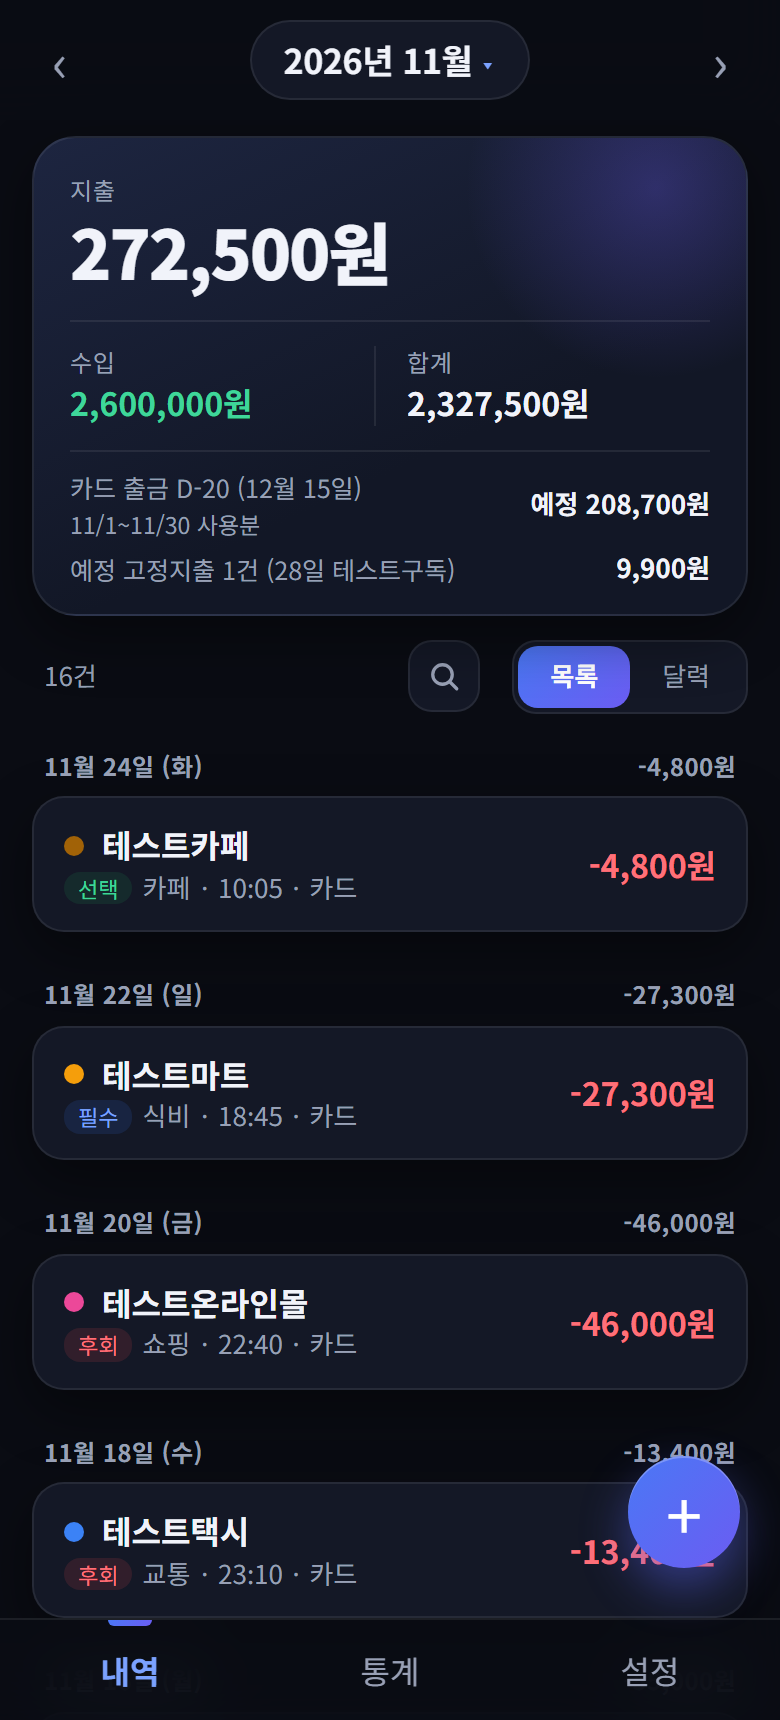
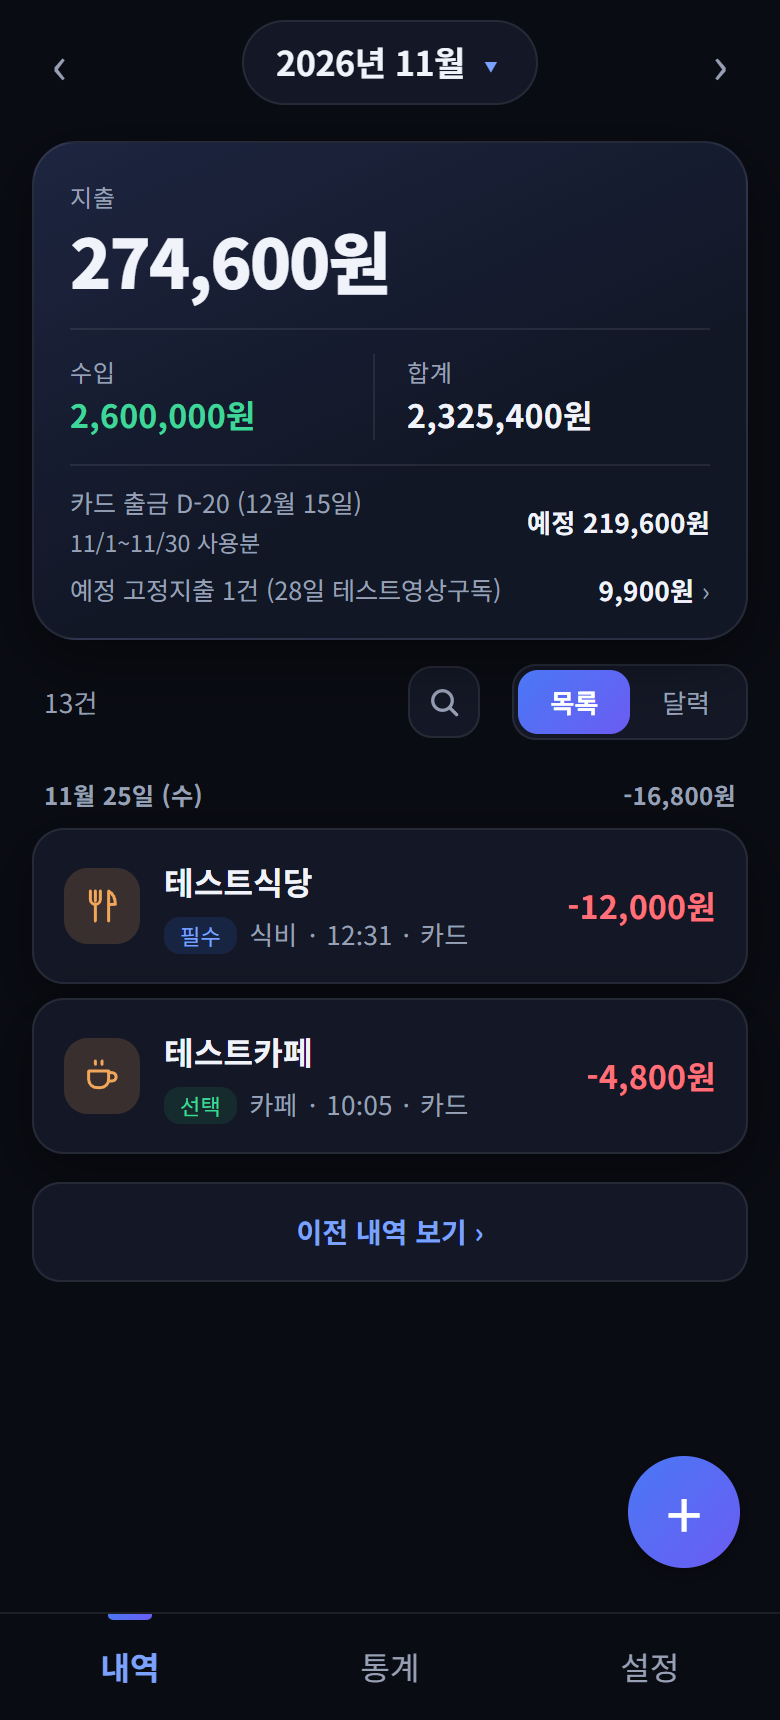
README 화면 이미지를 최신 화면으로 교체(가짜 데이터), 알림 시각 줄이 문자와 잘리는 오류 수정

diff --git a/js/sms.js b/js/sms.js
@@ -24,7 +24,9 @@ function splitSms(text) {
   let cur = [];
   for (const line of text.replace(/\r/g, '').split('\n')) {
     const startsAlert = ALERT_LINE.test(line) && cur.some((l) => l.trim());
-    if (startsAlert || (SMS_START.test(line) && SMS_WHEN.test(cur.join('\n')))) { blocks.push(cur.join('\n')); cur = []; }
+    // 도착 시각 줄("[알림 2026-11-25 12:31]")의 날짜·시각은 문자 본문의 시각으로 보지 않는다 (안 그러면 그 줄만 따로 한 통으로 잘려 '읽지 못한 문자'가 된다)
+    const hasBody = cur.some((l) => !ALERT_LINE.test(l) && SMS_WHEN.test(l));
+    if (startsAlert || (SMS_START.test(line) && hasBody)) { blocks.push(cur.join('\n')); cur = []; }
     cur.push(line);
   }
   if (cur.length) blocks.push(cur.join('\n'));

diff --git a/docs/개발-기록.md b/docs/개발-기록.md
@@ -187,6 +187,8 @@
 - **구독:** 구독을 문화/여가에 넣던 방식을 바꿔 **작은 카테고리 "구독"**을 만들었어요(큰 카테고리는 고정비 안). 월세, 통신, 보험처럼 꼭 내야 하는 돈과 해지할 수 있는 구독을 나눠 보고 싶었어요. 이미 구독으로 등록한 고정지출과 그 내역은 앱을 열 때 한 번만 구독으로 옮겨요.
 - **알림이 먼저 오는 경우:** 구독 결제 알림이 고정지출보다 먼저 들어오면 이름을 못 맞혀 "기타"로 들어갔고, 나중에 고정지출과 합쳐져도 기타로 남았어요. 이제 합칠 때 "기타"였으면 고정지출의 분류를 따라요(직접 바꾼 카테고리는 건드리지 않아요).
 
+- **README 화면 이미지:** 가짜 데이터와 고정한 시계(2026-11-25)로 헤드리스 크롬에서 다시 찍었어요. 찍다가 `[알림 …]` 도착 시각 줄이 ●로 시작하는 문자와 따로 잘려 "읽지 못한 문자 1건"으로 나오는 작은 오류를 찾아, 시각 줄은 본문 시각으로 세지 않게 고치고 시험을 추가했어요(다음 릴리스에 들어가요).
+
 ---
 
 ## 개발하며 배운 점
